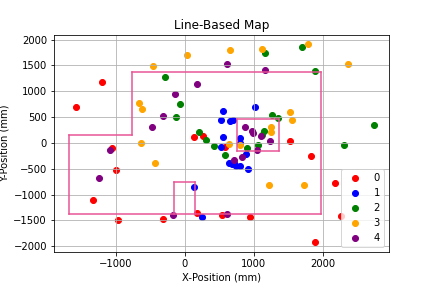
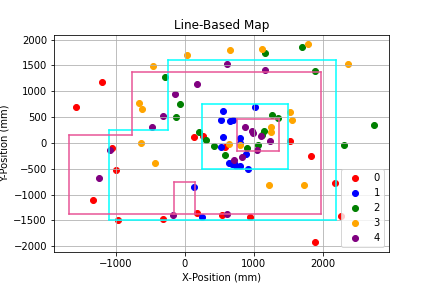
updated top level images

Changed region(s): [[0.2407, 0.1875, 0.7824, 0.7812], [0.4514, 0.3438, 0.6921, 0.5938]]

diff --git a/index.html b/index.html
@@ -150,7 +150,7 @@
                             <div class="portfolio-item-caption d-flex align-items-center justify-content-center h-100 w-100">
                                 <div class="portfolio-item-caption-content text-center text-white"><i class="fas fa-plus fa-3x"></i></div>
                             </div>
-                            <img class="img-fluid" style="height:260px;" src="assets/img/portfolio/circus.png" alt="..." />
+                            <img class="img-fluid" style="height:260px;" src="assets/img/Lab9/Robot.png" alt="..." />
                         </div>
                         <div class="lab-text text-center mt-4">Lab 9</div>
                     </div>
@@ -2718,7 +2718,7 @@
                                         <div class="divider-custom-line"></div>
                                     </div>
                                     <!-- Portfolio Modal - Image-->
-                                    <img class="img-fluid rounded mb-5" src="assets/img/Lab6/PID.png" alt="..." />
+                                    <img class="img-fluid rounded mb-5" src="assets/img/Lab9/lineBasedMap.png" alt="..." />
                                     <!-- Portfolio Modal - Text-->
                                     <h1>Overview</h1>
                                     <p class="mb-4">
@@ -2806,6 +2806,18 @@
                                         <iframe width="560" height="315" src="https://www.youtube.com/embed/9QNsqm4CDCI" title="YouTube video player" 
                                         frameborder="0" allow="accelerometer; autoplay; clipboard-write; encrypted-media; gyroscope; picture-in-picture" 
                                         allowfullscreen></iframe>
+
+                                        <br>
+                                        <br>
+
+                                        On average, the robot's orientation changes by <code>17 degrees</code> during a single measurement. The maximum error would 
+                                        occur if I registered the front ToF sensor's value at a <code>90 degree</code> orientation instead of at the expected 
+                                        <code>~73 degrees</code>. I will discuss this later, but the error in the computed <code>x-position</code> would be 
+                                        <code>2000 mm * 1 - cos(90-73) = 87 mm</code> (<code>2000 mm</code> since the robot will start centered). However, 
+                                        this assumes that my ToF sensors operate fairly well, which is not the case. On average, my ToF sensors are off by <code>
+                                        100 mm</code>, so the theoretical max error should be <code>187 mm</code>. My robot also doesn't turn on axis incredibly 
+                                        reliably and moves by approximately <code>200 mm</code> per full rotation, increasing the max error to <code>387 mm</code>. 
+                                        The average error should be smaller than this, but it probably won't be the case.
 
                                     </p>
                                     
@@ -2899,18 +2911,26 @@
                                         <script src="https://gist.github.com/roninsharma25/448fcbd925f109abb1f7b19b86149051.js"></script>
 
                                         Now that I had all the <code>x, y</code> coordinates, I plotted them, stratified by location. I added in the lines representing the outlines 
-                                        for the boundary and obstacles. I obtained the positions for these lines from the lab 10 repository.
+                                        for the boundary and obstacles. I obtained the positions for these lines from the lab 10 repository (pink). The cyan borders represent the 
+                                        boundaries that I determined experimentally from my ToF data. I included the two boundary point lists below the graph. The first list (boundary) 
+                                        consists of the points I added and the second list (world) consists of the points provided in the lab 10 setup.
+
+                                        <br>
+                                        <br>
 
                                         <img src="assets/img/Lab9/lineBasedMap.png" width="500">
 
                                         <br>
                                         <br>
 
+                                        <script src="https://gist.github.com/roninsharma25/994588867981827e3d82ac21c10bdad5.js"></script>
+
                                         Overall, my sensor values weren't perfect. Part of this is because the robot didn't perfectly spin on axis. The plot shows the best run as 
                                         the previous runs were much worse. Another reason for the poor readings is the inconsistency of my front ToF sensor. As I mentioned in my 
                                         lab 8 wiki, sometimes it simply can't detect values greater than <code>600 mm</code>, regardless of the distance mode, and sometimes 
                                         it consistently detects values too large, regardless of the integration time. Generally, I was able to detect the box near the center of 
-                                        the space, and was somewhat able to detect the box near the boundary.
+                                        the space, and was somewhat able to detect the box near the boundary. The gyroscope values would also drift over time so that could have 
+                                        contributed to errors in the computed angles.
                                     
                                     </p>
 
